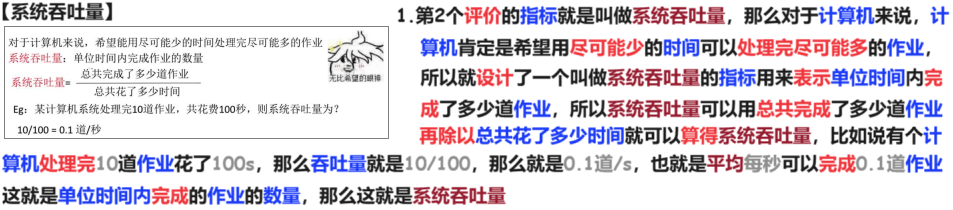
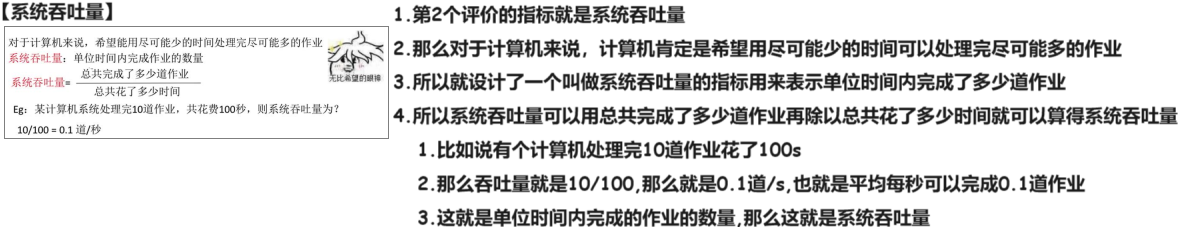
240607

diff --git a/01 初试/01 OS/02 24 25 王道/01 基础/02 进程 线程/02 处理机调度/02 调度 目标 调度算法 评价指标 240606/02 消化/02 Doc.md b/01 初试/01 OS/02 24 25 王道/01 基础/02 进程 线程/02 处理机调度/02 调度 目标 调度算法 评价指标 240606/02 消化/02 Doc.md
@@ -16,7 +16,7 @@
 
 # 03 系统吞吐量
 
-<img src="https://cvp.oss-cn-shanghai.aliyuncs.com/picgo/202405011021588.png" alt="image-20240501102133512" style="zoom:50%;" />
+<img src="https://cvp.oss-cn-shanghai.aliyuncs.com/picgo/202406071155774.png" alt="image-20240607115555676" style="zoom:50%;" />
 
 
 
